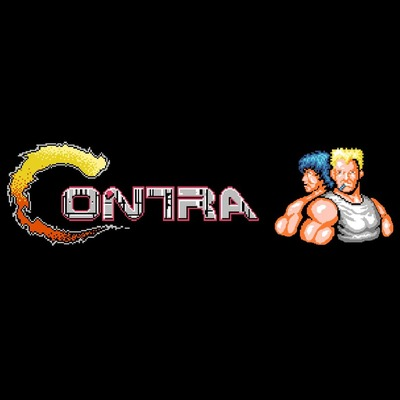
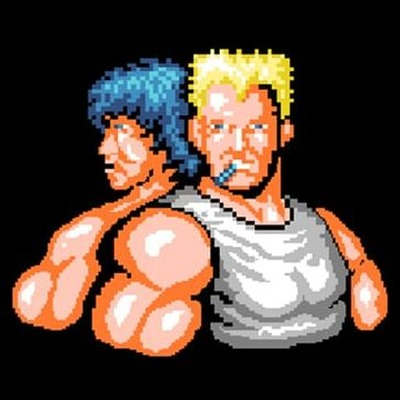
Contra cover: crop to the two characters
Claude-Session: https://claude.ai/code/session_019ZVJF5LdGZk3h22sdcwsHd

diff --git a/index.html b/index.html
@@ -21,7 +21,7 @@
   <link rel="icon" type="image/png" sizes="48x48" href="/favicon-48.png">
   <link rel="icon" type="image/png" sizes="192x192" href="images/favicon.png">
   <link rel="apple-touch-icon" href="/apple-touch-icon.png">
-  <link rel="stylesheet" href="style.css?v=202610252136">
+  <link rel="stylesheet" href="style.css?v=202610252137">
   <script type="application/ld+json">[{"@context": "https://schema.org", "@type": "WebSite", "name": "ZZ Games", "alternateName": ["ZZ-Games", "ZZGames", "ZZ Games Unblocked", "ZZ Unblocked Games"], "url": "https://zz-games.github.io/", "description": "ZZ Games (ZZ-Games) is an unblocked game site with free browser games: Slope, Retro Bowl, Minecraft, Geometry Dash, Drift Boss, Subway Surfers, Paper.io 2 and more. No downloads – just play.", "keywords": "ZZ Games, ZZ-Games, zz games, zzgames, zz games unblocked, unblocked games, unblocked game site, unblocked games for school, free online games, browser games, games unblocked, play games online, no download games, html5 games, school games, fun games", "potentialAction": {"@type": "SearchAction", "target": "https://zz-games.github.io/site/?q={search_term_string}", "query-input": "required name=search_term_string"}, "image": "https://zz-games.github.io/site/images/logo-square-dark.png"}, {"@context": "https://schema.org", "@type": "WebPage", "name": "ZZ Games – Unblocked Games", "url": "https://zz-games.github.io/site/", "primaryImageOfPage": {"@type": "ImageObject", "url": "https://zz-games.github.io/site/images/logo-square-dark.png", "width": 1024, "height": 1024}, "image": "https://zz-games.github.io/site/images/logo-square-dark.png", "isPartOf": {"@type": "WebSite", "name": "ZZ Games", "url": "https://zz-games.github.io/"}}, {"@context": "https://schema.org", "@type": "ItemList", "name": "Unblocked games on ZZ Games", "itemListElement": [{"@type": "ListItem", "position": 1, "item": {"@type": "VideoGame", "name": "Tung Tung Kart", "genre": "Racing", "url": "https://zz-games.github.io/site/play.html?game=tung-tung-kart", "gamePlatform": "Web browser", "playMode": "SinglePlayer"}}, {"@type": "ListItem", "position": 2, "item": {"@type": "VideoGame", "name": "Minecraft", "genre": "Action", "url": "https://zz-games.github.io/site/play.html?game=minecraft", "gamePlatform": "Web browser", "playMode": "SinglePlayer"}}, {"@type": "ListItem", "position": 3, "item": {"@type": "VideoGame", "name": "Slope", "genre": "Arcade", "url": "https://zz-games.github.io/site/play.html?game=slope", "gamePlatform": "Web browser", "playMode": "SinglePlayer"}}, {"@type": "ListItem", "position": 4, "item": {"@type": "VideoGame", "name": "Geometry Dash Lite", "genre": "Arcade", "url": "https://zz-games.github.io/site/play.html?game=geometry-dash-lite", "gamePlatform": "Web browser", "playMode": "SinglePlayer"}}, {"@type": "ListItem", "position": 5, "item": {"@type": "VideoGame", "name": "Stickman Hook", "genre": "Arcade", "url": "https://zz-games.github.io/site/play.html?game=stickman-hook", "gamePlatform": "Web browser", "playMode": "SinglePlayer"}}, {"@type": "ListItem", "position": 6, "item": {"@type": "VideoGame", "name": "Block Blasts", "genre": "Puzzle", "url": "https://zz-games.github.io/site/play.html?game=block-blasts", "gamePlatform": "Web browser", "playMode": "SinglePlayer"}}, {"@type": "ListItem", "position": 7, "item": {"@type": "VideoGame", "name": "Basket Random", "genre": "Sports", "url": "https://zz-games.github.io/site/play.html?game=basket-random", "gamePlatform": "Web browser", "playMode": "SinglePlayer"}}, {"@type": "ListItem", "position": 8, "item": {"@type": "VideoGame", "name": "Cluster Rush", "genre": "Arcade", "url": "https://zz-games.github.io/site/play.html?game=cluster-rush", "gamePlatform": "Web browser", "playMode": "SinglePlayer"}}, {"@type": "ListItem", "position": 9, "item": {"@type": "VideoGame", "name": "Drive Mad", "genre": "Racing", "url": "https://zz-games.github.io/site/play.html?game=drive-mad", "gamePlatform": "Web browser", "playMode": "SinglePlayer"}}, {"@type": "ListItem", "position": 10, "item": {"@type": "VideoGame", "name": "Table Tennis World Tour", "genre": "Sports", "url": "https://zz-games.github.io/site/play.html?game=table-tennis-world-tour", "gamePlatform": "Web browser", "playMode": "SinglePlayer"}}, {"@type": "ListItem", "position": 11, "item": {"@type": "VideoGame", "name": "Retro Bowl", "genre": "Sports", "url": "https://zz-games.github.io/site/play.html?game=retro-bowl", "gamePlatform": "Web browser", "playMode": "SinglePlayer"}}, {"@type": "ListItem", "position": 12, "item": {"@type": "VideoGame", "name": "Retro Bowl College", "genre": "Sports", "url": "https://zz-games.github.io/site/play.html?game=retro-bowl-college", "gamePlatform": "Web browser", "playMode": "SinglePlayer"}}, {"@type": "ListItem", "position": 13, "item": {"@type": "VideoGame", "name": "Slow Roads", "genre": "Racing", "url": "https://zz-games.github.io/site/play.html?game=slow-roads", "gamePlatform": "Web browser", "playMode": "SinglePlayer"}}, {"@type": "ListItem", "position": 14, "item": {"@type": "VideoGame", "name": "Krillion", "genre": "Puzzle", "url": "https://zz-games.github.io/site/play.html?game=krillion", "gamePlatform": "Web browser", "playMode": "SinglePlayer"}}, {"@type": "ListItem", "position": 15, "item": {"@type": "VideoGame", "name": "Summer Rider", "genre": "Racing", "url": "https://zz-games.github.io/site/play.html?game=summer-rider", "gamePlatform": "Web browser", "playMode": "SinglePlayer"}}, {"@type": "ListItem", "position": 16, "item": {"@type": "VideoGame", "name": "Ragdoll Archers", "genre": "Action", "url": "https://zz-games.github.io/site/play.html?game=ragdoll-archers", "gamePlatform": "Web browser", "playMode": "SinglePlayer"}}, {"@type": "ListItem", "position": 17, "item": {"@type": "VideoGame", "name": "Rooftop Run", "genre": "Arcade", "url": "https://zz-games.github.io/site/play.html?game=rooftop-run", "gamePlatform": "Web browser", "playMode": "SinglePlayer"}}, {"@type": "ListItem", "position": 18, "item": {"@type": "VideoGame", "name": "Moto Road Rash 3D", "genre": "Racing", "url": "https://zz-games.github.io/site/play.html?game=moto-road-rash-3d", "gamePlatform": "Web browser", "playMode": "SinglePlayer"}}, {"@type": "ListItem", "position": 19, "item": {"@type": "VideoGame", "name": "Survival Race", "genre": "Racing", "url": "https://zz-games.github.io/site/play.html?game=survival-race", "gamePlatform": "Web browser", "playMode": "SinglePlayer"}}, {"@type": "ListItem", "position": 20, "item": {"@type": "VideoGame", "name": "Snow Rider", "genre": "Racing", "url": "https://zz-games.github.io/site/play.html?game=snow-rider", "gamePlatform": "Web browser", "playMode": "SinglePlayer"}}, {"@type": "ListItem", "position": 21, "item": {"@type": "VideoGame", "name": "PolyTrack", "genre": "Racing", "url": "https://zz-games.github.io/site/play.html?game=polytrack", "gamePlatform": "Web browser", "playMode": "SinglePlayer"}}, {"@type": "ListItem", "position": 22, "item": {"@type": "VideoGame", "name": "Drift Boss", "genre": "Racing", "url": "https://zz-games.github.io/site/play.html?game=drift-boss", "gamePlatform": "Web browser", "playMode": "SinglePlayer"}}, {"@type": "ListItem", "position": 23, "item": {"@type": "VideoGame", "name": "Subway Surfers", "genre": "Arcade", "url": "https://zz-games.github.io/site/play.html?game=subway-surfers", "gamePlatform": "Web browser", "playMode": "SinglePlayer"}}, {"@type": "ListItem", "position": 24, "item": {"@type": "VideoGame", "name": "Apple Worm", "genre": "Puzzle", "url": "https://zz-games.github.io/site/play.html?game=apple-worm", "gamePlatform": "Web browser", "playMode": "SinglePlayer"}}, {"@type": "ListItem", "position": 25, "item": {"@type": "VideoGame", "name": "Escape Road", "genre": "Racing", "url": "https://zz-games.github.io/site/play.html?game=escape-road", "gamePlatform": "Web browser", "playMode": "SinglePlayer"}}, {"@type": "ListItem", "position": 26, "item": {"@type": "VideoGame", "name": "Hole.io", "genre": "Arcade", "url": "https://zz-games.github.io/site/play.html?game=hole-io", "gamePlatform": "Web browser", "playMode": "SinglePlayer"}}, {"@type": "ListItem", "position": 27, "item": {"@type": "VideoGame", "name": "Dunk Shot", "genre": "Sports", "url": "https://zz-games.github.io/site/play.html?game=dunk-shot", "gamePlatform": "Web browser", "playMode": "SinglePlayer"}}, {"@type": "ListItem", "position": 28, "item": {"@type": "VideoGame", "name": "Moto X3M", "genre": "Racing", "url": "https://zz-games.github.io/site/play.html?game=moto-x3m", "gamePlatform": "Web browser", "playMode": "SinglePlayer"}}, {"@type": "ListItem", "position": 29, "item": {"@type": "VideoGame", "name": "Fly the Plane", "genre": "Arcade", "url": "https://zz-games.github.io/site/play.html?game=fly-the-plane", "gamePlatform": "Web browser", "playMode": "SinglePlayer"}}, {"@type": "ListItem", "position": 30, "item": {"@type": "VideoGame", "name": "Among Us", "genre": "Action", "url": "https://zz-games.github.io/site/play.html?game=among-us", "gamePlatform": "Web browser", "playMode": "SinglePlayer"}}, {"@type": "ListItem", "position": 31, "item": {"@type": "VideoGame", "name": "Super Liquid Soccer", "genre": "Sports", "url": "https://zz-games.github.io/site/play.html?game=super-liquid-soccer", "gamePlatform": "Web browser", "playMode": "SinglePlayer"}}, {"@type": "ListItem", "position": 32, "item": {"@type": "VideoGame", "name": "Wrestle Bros", "genre": "Sports", "url": "https://zz-games.github.io/site/play.html?game=wrestle-bros", "gamePlatform": "Web browser", "playMode": "SinglePlayer"}}, {"@type": "ListItem", "position": 33, "item": {"@type": "VideoGame", "name": "Ramp Car vs Police", "genre": "Racing", "url": "https://zz-games.github.io/site/play.html?game=ramp-car-vs-police", "gamePlatform": "Web browser", "playMode": "SinglePlayer"}}, {"@type": "ListItem", "position": 34, "item": {"@type": "VideoGame", "name": "Basketball Stars", "genre": "Sports", "url": "https://zz-games.github.io/site/play.html?game=basketball-stars", "gamePlatform": "Web browser", "playMode": "SinglePlayer"}}, {"@type": "ListItem", "position": 35, "item": {"@type": "VideoGame", "name": "Draw Climber", "genre": "Puzzle", "url": "https://zz-games.github.io/site/play.html?game=draw-climber", "gamePlatform": "Web browser", "playMode": "SinglePlayer"}}, {"@type": "ListItem", "position": 36, "item": {"@type": "VideoGame", "name": "Blaze Drifter", "genre": "Racing", "url": "https://zz-games.github.io/site/play.html?game=blaze-drifter", "gamePlatform": "Web browser", "playMode": "SinglePlayer"}}, {"@type": "ListItem", "position": 37, "item": {"@type": "VideoGame", "name": "Mad Pursuit", "genre": "Racing", "url": "https://zz-games.github.io/site/play.html?game=mad-pursuit", "gamePlatform": "Web browser", "playMode": "SinglePlayer"}}, {"@type": "ListItem", "position": 38, "item": {"@type": "VideoGame", "name": "Football Bros", "genre": "Sports", "url": "https://zz-games.github.io/site/play.html?game=football-bros", "gamePlatform": "Web browser", "playMode": "SinglePlayer"}}, {"@type": "ListItem", "position": 39, "item": {"@type": "VideoGame", "name": "Soccer Bros", "genre": "Sports", "url": "https://zz-games.github.io/site/play.html?game=soccer-bros", "gamePlatform": "Web browser", "playMode": "SinglePlayer"}}, {"@type": "ListItem", "position": 40, "item": {"@type": "VideoGame", "name": "Baseball Bros", "genre": "Sports", "url": "https://zz-games.github.io/site/play.html?game=baseball-bros", "gamePlatform": "Web browser", "playMode": "SinglePlayer"}}, {"@type": "ListItem", "position": 41, "item": {"@type": "VideoGame", "name": "Google Snake", "genre": "Retro", "url": "https://zz-games.github.io/site/play.html?game=google-snake", "gamePlatform": "Web browser", "playMode": "SinglePlayer"}}, {"@type": "ListItem", "position": 42, "item": {"@type": "VideoGame", "name": "Sky Race 3D", "genre": "Racing", "url": "https://zz-games.github.io/site/play.html?game=sky-race-3d", "gamePlatform": "Web browser", "playMode": "SinglePlayer"}}, {"@type": "ListItem", "position": 43, "item": {"@type": "VideoGame", "name": "Stack Ball", "genre": "Arcade", "url": "https://zz-games.github.io/site/play.html?game=stack-ball", "gamePlatform": "Web browser", "playMode": "SinglePlayer"}}, {"@type": "ListItem", "position": 44, "item": {"@type": "VideoGame", "name": "Google Doodle Baseball", "genre": "Retro", "url": "https://zz-games.github.io/site/play.html?game=google-doodle-baseball", "gamePlatform": "Web browser", "playMode": "SinglePlayer"}}, {"@type": "ListItem", "position": 45, "item": {"@type": "VideoGame", "name": "Mr. Car Racer", "genre": "Racing", "url": "https://zz-games.github.io/site/play.html?game=mr-car-racer", "gamePlatform": "Web browser", "playMode": "SinglePlayer"}}, {"@type": "ListItem", "position": 46, "item": {"@type": "VideoGame", "name": "Blackjack", "genre": "Other", "url": "https://zz-games.github.io/site/play.html?game=blackjack", "gamePlatform": "Web browser", "playMode": "SinglePlayer"}}, {"@type": "ListItem", "position": 47, "item": {"@type": "VideoGame", "name": "Stickman Duel", "genre": "Action", "url": "https://zz-games.github.io/site/play.html?game=stickman-duel", "gamePlatform": "Web browser", "playMode": "SinglePlayer"}}, {"@type": "ListItem", "position": 48, "item": {"@type": "VideoGame", "name": "Bad Piggies", "genre": "Puzzle", "url": "https://zz-games.github.io/site/play.html?game=bad-piggies", "gamePlatform": "Web browser", "playMode": "SinglePlayer"}}, {"@type": "ListItem", "position": 49, "item": {"@type": "VideoGame", "name": "Golf Battle", "genre": "Sports", "url": "https://zz-games.github.io/site/play.html?game=golf-battle", "gamePlatform": "Web browser", "playMode": "SinglePlayer"}}, {"@type": "ListItem", "position": 50, "item": {"@type": "VideoGame", "name": "Jetski Race", "genre": "Racing", "url": "https://zz-games.github.io/site/play.html?game=jetski-race", "gamePlatform": "Web browser", "playMode": "SinglePlayer"}}, {"@type": "ListItem", "position": 51, "item": {"@type": "VideoGame", "name": "Tall.io", "genre": "Arcade", "url": "https://zz-games.github.io/site/play.html?game=tall-io", "gamePlatform": "Web browser", "playMode": "SinglePlayer"}}, {"@type": "ListItem", "position": 52, "item": {"@type": "VideoGame", "name": "Crazy Plane Landing", "genre": "Arcade", "url": "https://zz-games.github.io/site/play.html?game=crazy-plane-landing", "gamePlatform": "Web browser", "playMode": "SinglePlayer"}}, {"@type": "ListItem", "position": 53, "item": {"@type": "VideoGame", "name": "Five Nights at Freddy's", "genre": "Action", "url": "https://zz-games.github.io/site/play.html?game=five-nights-at-freddy-s", "gamePlatform": "Web browser", "playMode": "SinglePlayer"}}, {"@type": "ListItem", "position": 54, "item": {"@type": "VideoGame", "name": "Money Rush", "genre": "Arcade", "url": "https://zz-games.github.io/site/play.html?game=money-rush", "gamePlatform": "Web browser", "playMode": "SinglePlayer"}}, {"@type": "ListItem", "position": 55, "item": {"@type": "VideoGame", "name": "Grass Mowing Simulator", "genre": "Other", "url": "https://zz-games.github.io/site/play.html?game=grass-mowing-simulator", "gamePlatform": "Web browser", "playMode": "SinglePlayer"}}, {"@type": "ListItem", "position": 56, "item": {"@type": "VideoGame", "name": "Elytra Flight", "genre": "Arcade", "url": "https://zz-games.github.io/site/play.html?game=elytra-flight", "gamePlatform": "Web browser", "playMode": "SinglePlayer"}}, {"@type": "ListItem", "position": 57, "item": {"@type": "VideoGame", "name": "Crazy Motorcycle", "genre": "Racing", "url": "https://zz-games.github.io/site/play.html?game=crazy-motorcycle", "gamePlatform": "Web browser", "playMode": "SinglePlayer"}}, {"@type": "ListItem", "position": 58, "item": {"@type": "VideoGame", "name": "Crossy Road", "genre": "Arcade", "url": "https://zz-games.github.io/site/play.html?game=crossy-road", "gamePlatform": "Web browser", "playMode": "SinglePlayer"}}, {"@type": "ListItem", "position": 59, "item": {"@type": "VideoGame", "name": "Suika Game", "genre": "Puzzle", "url": "https://zz-games.github.io/site/play.html?game=suika-game", "gamePlatform": "Web browser", "playMode": "SinglePlayer"}}, {"@type": "ListItem", "position": 60, "item": {"@type": "VideoGame", "name": "Dune Dash", "genre": "Racing", "url": "https://zz-games.github.io/site/play.html?game=dune-dash", "gamePlatform": "Web browser", "playMode": "SinglePlayer"}}, {"@type": "ListItem", "position": 61, "item": {"@type": "VideoGame", "name": "Cut the Rope", "genre": "Puzzle", "url": "https://zz-games.github.io/site/play.html?game=cut-the-rope", "gamePlatform": "Web browser", "playMode": "SinglePlayer"}}, {"@type": "ListItem", "position": 62, "item": {"@type": "VideoGame", "name": "Tanuki Sunset", "genre": "Racing", "url": "https://zz-games.github.io/site/play.html?game=tanuki-sunset", "gamePlatform": "Web browser", "playMode": "SinglePlayer"}}, {"@type": "ListItem", "position": 63, "item": {"@type": "VideoGame", "name": "Angry Birds", "genre": "Puzzle", "url": "https://zz-games.github.io/site/play.html?game=angry-birds", "gamePlatform": "Web browser", "playMode": "SinglePlayer"}}, {"@type": "ListItem", "position": 64, "item": {"@type": "VideoGame", "name": "Icy Purple Head", "genre": "Puzzle", "url": "https://zz-games.github.io/site/play.html?game=icy-purple-head", "gamePlatform": "Web browser", "playMode": "SinglePlayer"}}, {"@type": "ListItem", "position": 65, "item": {"@type": "VideoGame", "name": "BitLife", "genre": "Other", "url": "https://zz-games.github.io/site/play.html?game=bitlife", "gamePlatform": "Web browser", "playMode": "SinglePlayer"}}, {"@type": "ListItem", "position": 66, "item": {"@type": "VideoGame", "name": "Poly Billiards", "genre": "Sports", "url": "https://zz-games.github.io/site/play.html?game=poly-billiards", "gamePlatform": "Web browser", "playMode": "SinglePlayer"}}, {"@type": "ListItem", "position": 67, "item": {"@type": "VideoGame", "name": "Tower Crash 3D", "genre": "Arcade", "url": "https://zz-games.github.io/site/play.html?game=tower-crash-3d", "gamePlatform": "Web browser", "playMode": "SinglePlayer"}}, {"@type": "ListItem", "position": 68, "item": {"@type": "VideoGame", "name": "Highway Traffic 3D", "genre": "Racing", "url": "https://zz-games.github.io/site/play.html?game=highway-traffic-3d", "gamePlatform": "Web browser", "playMode": "SinglePlayer"}}, {"@type": "ListItem", "position": 69, "item": {"@type": "VideoGame", "name": "OvO", "genre": "Arcade", "url": "https://zz-games.github.io/site/play.html?game=ovo", "gamePlatform": "Web browser", "playMode": "SinglePlayer"}}, {"@type": "ListItem", "position": 70, "item": {"@type": "VideoGame", "name": "Paper.io 2", "genre": "Arcade", "url": "https://zz-games.github.io/site/play.html?game=paper-io-2", "gamePlatform": "Web browser", "playMode": "SinglePlayer"}}, {"@type": "ListItem", "position": 71, "item": {"@type": "VideoGame", "name": "Cookie Clicker", "genre": "Other", "url": "https://zz-games.github.io/site/play.html?game=cookie-clicker", "gamePlatform": "Web browser", "playMode": "SinglePlayer"}}, {"@type": "ListItem", "position": 72, "item": {"@type": "VideoGame", "name": "Crazy Cattle 3D", "genre": "Action", "url": "https://zz-games.github.io/site/play.html?game=crazy-cattle-3d", "gamePlatform": "Web browser", "playMode": "SinglePlayer"}}]}]</script>
 </head>
 <body>
@@ -55,7 +55,7 @@
 
   <footer class="foot">ZZ Games · <span id="count"></span> games</footer>
 
-  <script src="games.js?v=202610252136"></script>
-  <script src="app.js?v=202610252136"></script>
+  <script src="games.js?v=202610252137"></script>
+  <script src="app.js?v=202610252137"></script>
 </body>
 </html>

diff --git a/request.html b/request.html
@@ -8,7 +8,7 @@
   <link rel="preconnect" href="https://fonts.googleapis.com">
   <link href="https://fonts.googleapis.com/css2?family=Russo+One&family=Inter:wght@400;600;800&display=swap" rel="stylesheet">
   <link rel="icon" href="images/favicon.png">
-  <link rel="stylesheet" href="style.css?v=202610252136">
+  <link rel="stylesheet" href="style.css?v=202610252137">
   <style>
     .req-wrap { max-width: 640px; margin: 0 auto; }
     .req-hero { margin: 40px 0 0; }
@@ -121,7 +121,7 @@
   <footer class="foot">ZZ Games</footer>
   <iframe name="zzSink" id="zzSink" style="display:none" title=""></iframe>
 
-  <script src="games.js?v=202610252136"></script>
+  <script src="games.js?v=202610252137"></script>
   <script>
   (() => {
     const $ = (id) => document.getElementById(id);

diff --git a/play.html b/play.html
@@ -8,7 +8,7 @@
   <link rel="preconnect" href="https://fonts.googleapis.com">
   <link href="https://fonts.googleapis.com/css2?family=Russo+One&family=Inter:wght@400;600;800&display=swap" rel="stylesheet">
   <link rel="icon" href="images/favicon.png">
-  <link rel="stylesheet" href="style.css?v=202610252136">
+  <link rel="stylesheet" href="style.css?v=202610252137">
 </head>
 <body class="play-page">
   <header class="topbar">
@@ -32,7 +32,7 @@
     <div id="more" class="grid small"></div>
   </main>
 
-  <script src="games.js?v=202610252136"></script>
-  <script src="app.js?v=202610252136"></script>
+  <script src="games.js?v=202610252137"></script>
+  <script src="app.js?v=202610252137"></script>
 </body>
 </html>

diff --git a/gamble.html b/gamble.html
@@ -8,7 +8,7 @@
   <link rel="preconnect" href="https://fonts.googleapis.com">
   <link href="https://fonts.googleapis.com/css2?family=Russo+One&family=Inter:wght@400;600;800&display=swap" rel="stylesheet">
   <link rel="icon" href="images/favicon.png">
-  <link rel="stylesheet" href="style.css?v=202610252136">
+  <link rel="stylesheet" href="style.css?v=202610252137">
   <style>
     .gamble-hero {
       margin-top: 24px; border-radius: 22px; padding: clamp(28px, 5vw, 56px) 20px; text-align: center;
